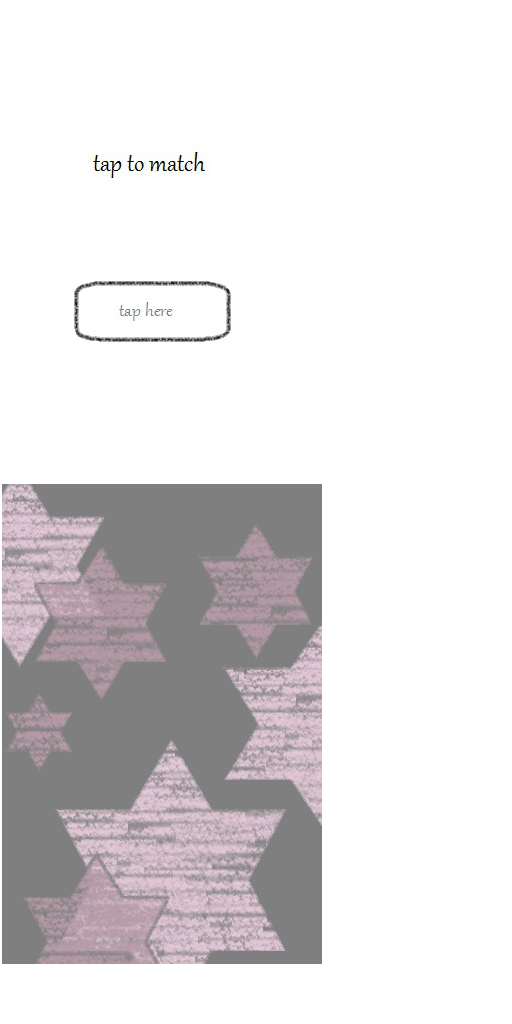
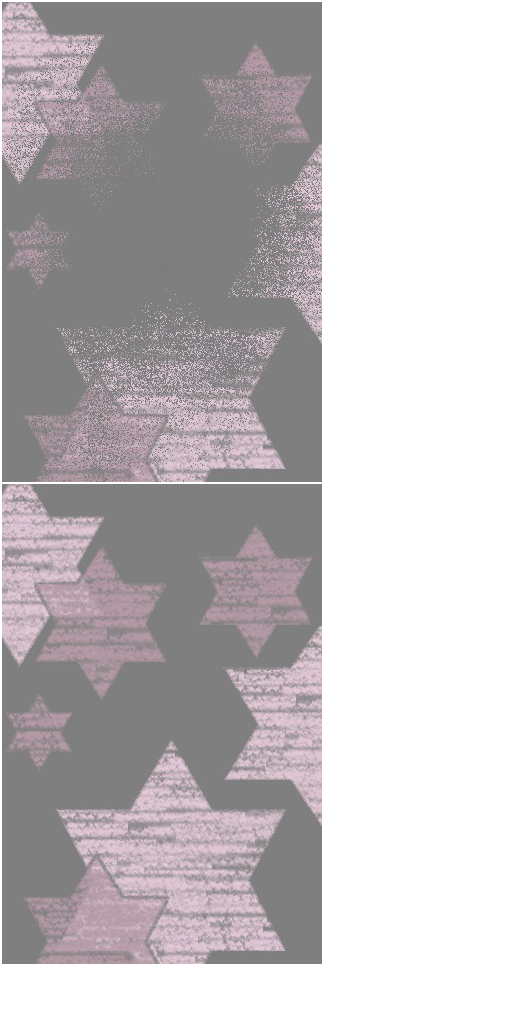
levels + last mods

Changed region(s): [[0.0, 0.0, 0.6562, 0.4688]]

diff --git a/README.md b/README.md
@@ -10,14 +10,16 @@ Done:
 
   - Algo
   - Timer
-  
+  - Lead / ending screens
+  - Levels
+  - Graphics
+
 
 Todo:
 ----
 
   - Scoring
-  - Lead / ending screens
-  - Graphics & animation
+  - Animation
   - Sound
 
 
